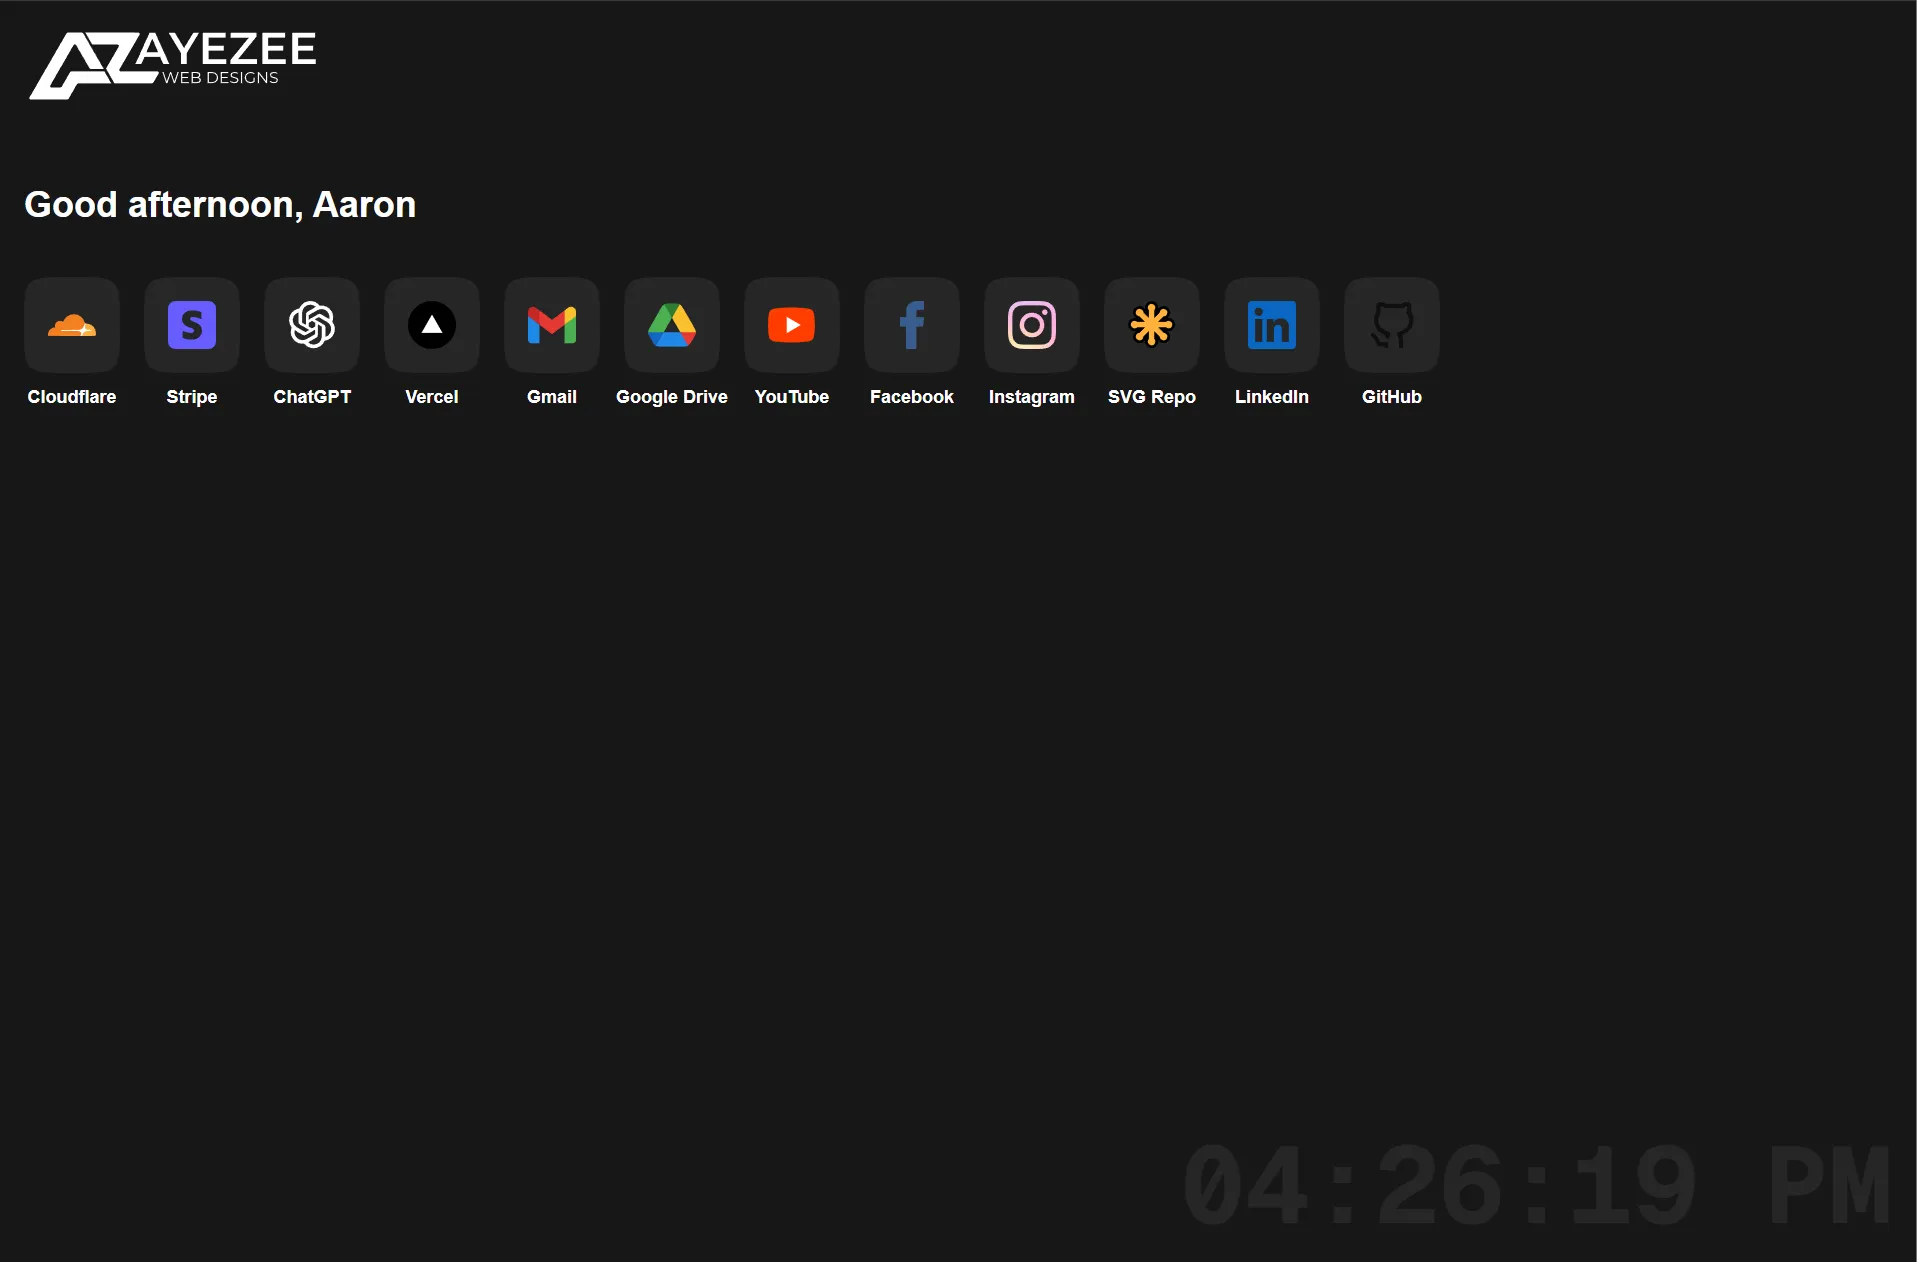
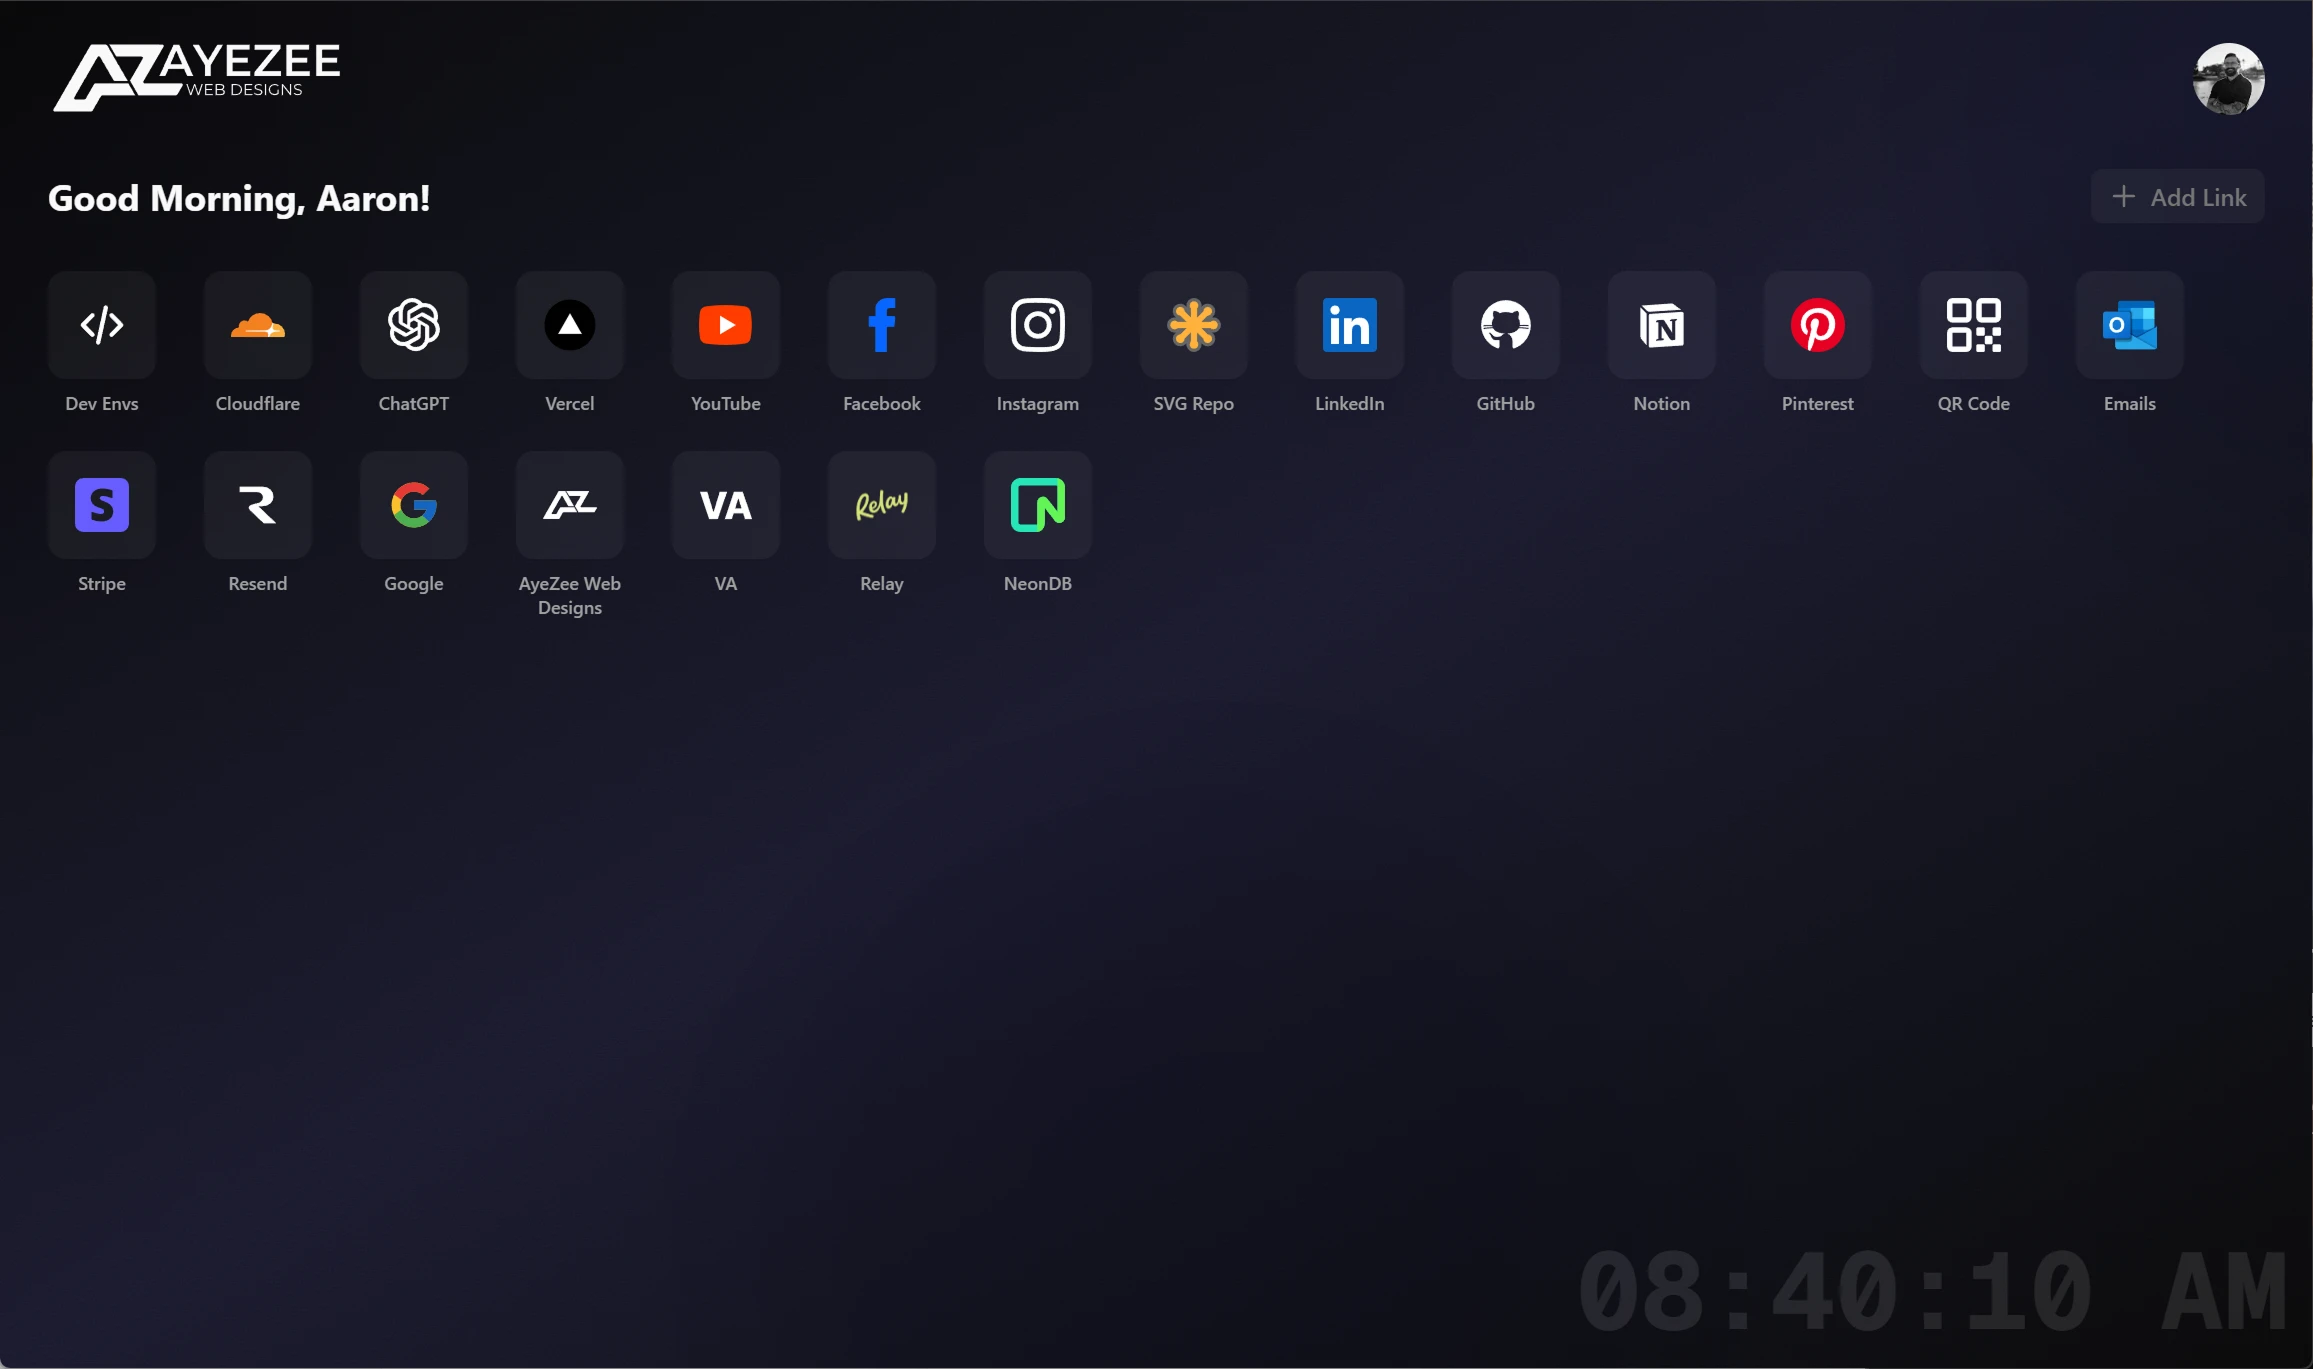
chore: update README.md for improved clarity and feature overview

diff --git a/README.md b/README.md
@@ -1,91 +1,325 @@
-# 🛍 AyeZee New Tab
+# 🌐 AyeZee New Tab# 🛍 AyeZee New Tab
 
-A minimalist custom new tab page built with **Next.js 15.3** and **Tailwind CSS v4**. This is my personal dashboard for quick access to frequently used tools, platforms, and resources.
+A modern, customizable new tab dashboard with user authentication, drag-and-drop link management, and cloud-based icon storage. Built for productivity and personalization.A minimalist custom new tab page built with **Next.js 15.3** and **Tailwind CSS v4**. This is my personal dashboard for quick access to frequently used tools, platforms, and resources.
 
-![screenshot](./public/images/screenshot.webp)
+![AyeZee New Tab](./public/images/screenshot.webp)
 
----
+## ✨ Features---
 
-## 🔧 Tech Stack
+- 🔐 **User Authentication** - Secure login system with NextAuth.js## 🔧 Tech Stack
 
-- **Next.js 15.3**
-- **Tailwind CSS v4**
-- Custom SVG icons stored in `/public/images/logos`
-- Centralized links stored in [`src/lib/links.ts`](./src/lib/links.ts)
+- 🎨 **Customizable Dashboard** - Personalized link tiles with custom icons
 
----
+- 🖱 **Drag & Drop** - Reorder your links with smooth animations- **Next.js 15.3**
+
+- 📁 **Nested Links** - Organize related links with parent-child relationships- **Tailwind CSS v4**
+
+- ☁ **Cloud Storage** - Icons stored on Cloudinary for reliability- Custom SVG icons stored in `/public/images/logos`
+
+- 🌅 **Dynamic Greeting** - Time-based personalized welcome messages- Centralized links stored in [`src/lib/links.ts`](./src/lib/links.ts)
+
+- ⏰ **Live Clock** - Real-time display in the corner
+
+- 🎭 **Animated Background** - Beautiful gradient animations---
+
+- 📱 **Responsive Design** - Works seamlessly across devices
 
 ## 📂 Project Structure
 
-```txt
-.
-├── public/
-│   └── images/
-│       └── logos/        # SVG icons used in the dashboard
-├── src/
-│   ├── lib/
+## 🔧 Tech Stack
+
+````txt
+
+### Frontend.
+
+- **Next.js 15.3** - React framework with App Router├── public/
+
+- **React 19** - Latest React features│   └── images/
+
+- **Tailwind CSS v4** - Utility-first styling│       └── logos/        # SVG icons used in the dashboard
+
+- **Framer Motion** - Smooth animations├── src/
+
+- **@dnd-kit** - Drag and drop functionality│   ├── lib/
+
 │   │   └── links.ts      # Array of dashboard links
-│   └── app/              # App directory for routing (Next.js 15)
-├── tailwind.config.ts
-└── README.md
-```
+
+### Backend & Database│   └── app/              # App directory for routing (Next.js 15)
+
+- **PostgreSQL** - Primary database├── tailwind.config.ts
+
+- **Drizzle ORM** - Type-safe database queries└── README.md
+
+- **NextAuth.js** - Authentication system```
+
+- **Docker** - Containerized PostgreSQL setup
 
 ---
 
-## ✨ Features
+### Cloud Services
+
+- **Cloudinary** - Image/icon storage and optimization## ✨ Features
+
+- **Cloudflare** - CDN and additional services
 
 - Lightweight and fast
-- Dark mode styling
+
+## 📋 Prerequisites- Dark mode styling
+
 - Personalized greeting with time-based message
-- Easy to update – just add to `links.ts`
 
----
+- Node.js 20+ - Easy to update – just add to `links.ts`
 
-## 🚀 Getting Started
+- Docker and Docker Compose (for local database)
 
-```bash
+- Cloudinary account (for icon storage)---
+
+
+
+## 🚀 Getting Started## 🚀 Getting Started
+
+
+
+### 1. Clone the Repository```bash
+
 npm run install
-npm run dev
-```
 
-Open [http://localhost:3000](http://localhost:3000) to view it in your browser.
+```bashnpm run dev
 
----
+git clone https://github.com/aaron-soto/ayezee-new-tab.git```
 
-## 🔗 Add Your Own Links
+cd ayezee-new-tab
 
-Modify [`src/lib/links.ts`](./src/lib/links.ts):
+```Open [http://localhost:3000](http://localhost:3000) to view it in your browser.
 
-```ts
+
+
+### 2. Install Dependencies---
+
+
+
+```bash## 🔗 Add Your Own Links
+
+npm install
+
+```Modify [`src/lib/links.ts`](./src/lib/links.ts):
+
+
+
+### 3. Environment Setup```ts
+
 export const links = [
-  {
+
+Create a `.env` file in the root directory:  {
+
     name: "Cloudflare",
-    href: "https://cloudflare.com",
-    icon: "/images/logos/cloudflare.svg",
-  },
+
+```env    href: "https://cloudflare.com",
+
+# Database    icon: "/images/logos/cloudflare.svg",
+
+DATABASE_URL=postgresql://postgres:postgres@localhost:5432/ayezee_new_tab  },
+
   ...
-];
-```
+
+# NextAuth];
+
+NEXTAUTH_URL=http://localhost:3000```
+
+NEXTAUTH_SECRET=your-secret-key-here
 
 Place matching icons in `/public/images/logos`.
 
----
+# Cloudinary
 
-## 💠 Plans
+CLOUDINARY_CLOUD_NAME=your-cloud-name---
+
+CLOUDINARY_API_KEY=your-api-key
+
+CLOUDINARY_API_SECRET=your-api-secret## 💠 Plans
+
+````
 
 - Add section grouping (e.g. Dev, Social, Tools)
-- Favicon preview
+
+### 4. Start PostgreSQL Database- Favicon preview
+
 - Search box
-- Keyboard shortcuts
+
+````bash- Keyboard shortcuts
+
+npm run docker:up
+
+```---
+
+
+
+This starts a PostgreSQL container using Docker Compose.## 🧠 Why?
+
+
+
+### 5. Initialize DatabaseJust a fun productivity boost — faster access, less distractions, and I get to control the experience.
+
+
+
+```bash---
+
+# Push schema to database
+
+npm run db:push## 🗪 License
+
+
+
+# (Optional) Seed with sample dataMIT
+
+npm run db:seed-user
+````
+
+### 6. Run Development Server
+
+```bash
+npm run dev
+```
+
+Open [http://localhost:3000](http://localhost:3000) in your browser.
+
+## 📂 Project Structure
+
+```
+ayezee-new-tab/
+├── src/
+│   ├── app/                      # Next.js app directory
+│   │   ├── api/                  # API routes
+│   │   │   ├── auth/            # NextAuth endpoints
+│   │   │   ├── links/           # Link CRUD operations
+│   │   │   └── user/            # User profile management
+│   │   ├── login/               # Login page
+│   │   ├── settings/            # User settings
+│   │   └── page.tsx             # Main dashboard
+│   ├── components/              # React components
+│   │   ├── tiles/              # Link tile components
+│   │   └── icons/              # Icon components
+│   ├── hooks/                   # Custom React hooks
+│   ├── lib/                     # Utilities and core logic
+│   │   ├── db/                 # Database schema and connection
+│   │   ├── stores/             # Zustand state management
+│   │   └── types/              # TypeScript types
+│   └── public/                  # Static assets
+├── docker-compose.yml           # PostgreSQL container config
+├── drizzle.config.ts           # Drizzle ORM configuration
+└── package.json
+```
+
+## 🎯 Usage
+
+### Adding Links
+
+1. Click the **Add Link** button
+2. Enter the label and URL
+3. Upload a custom icon or use a default one
+4. Optionally create nested child links
+5. Links are automatically saved to your account
+
+### Organizing Links
+
+- **Drag & Drop** - Click and drag tiles to reorder
+- **Context Menu** - Right-click tiles for additional options
+- **Child Links** - Create dropdown menus by adding child links
+
+### Customizing Your Profile
+
+Navigate to Settings to update your profile information and preferences.
+
+## 🗄 Database Scripts
+
+```bash
+# Push schema changes to database
+npm run db:push
+
+# Open Drizzle Studio (visual database editor)
+npm run db:studio
+
+# Generate migrations
+npm run db:generate
+
+# Run migrations
+npm run db:migrate
+
+# Seed database with sample data
+npm run db:seed-user
+```
+
+## 🐳 Docker Commands
+
+```bash
+# Start PostgreSQL container
+npm run docker:up
+
+# Stop PostgreSQL container
+npm run docker:down
+
+# View PostgreSQL logs
+npm run docker:logs
+```
+
+## 🛠 Development
+
+### Building for Production
+
+```bash
+npm run build
+npm run start
+```
+
+### Linting
+
+```bash
+npm run lint
+```
+
+## 🏗 Architecture
+
+### Authentication Flow
+
+- NextAuth.js handles user sessions
+- Credentials provider with bcrypt password hashing
+- Drizzle adapter for database integration
+
+### Data Management
+
+- Links are user-specific and stored in PostgreSQL
+- Drizzle ORM provides type-safe queries
+- Real-time updates through React state management
+
+### Icon Storage
+
+- Icons uploaded to Cloudinary
+- Automatic optimization and CDN delivery
+- Public IDs stored in database for reference
+
+## 🔜 Roadmap
+
+- [ ] Search functionality for links
+- [ ] Keyboard shortcuts
+- [ ] Themes and color customization
+- [ ] Import/export link collections
+- [ ] Browser extension
+- [ ] Mobile app
+
+## 🤝 Contributing
+
+Contributions are welcome! Please feel free to submit a Pull Request.
+
+## 📝 License
+
+This project is licensed under the MIT License.
+
+## 👤 Author
+
+**Aaron Soto**
+
+- GitHub: [@aaron-soto](https://github.com/aaron-soto)
 
 ---
 
-## 🧠 Why?
-
-Just a fun productivity boost — faster access, less distractions, and I get to control the experience.
-
----
-
-## 🗪 License
-
-MIT
+Built with ❤ using Next.js and modern web technologies.
